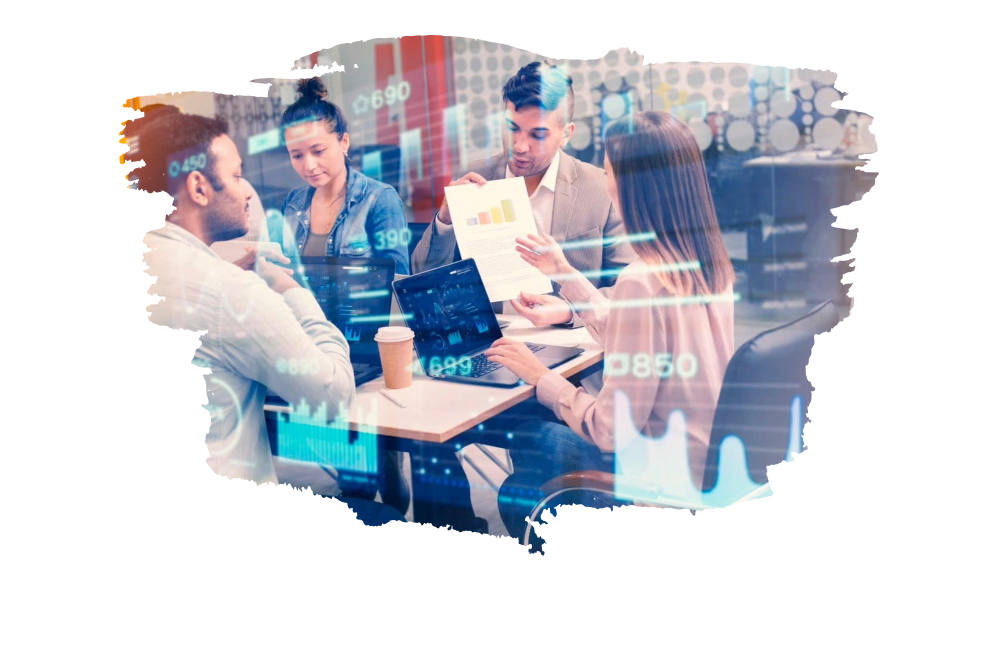
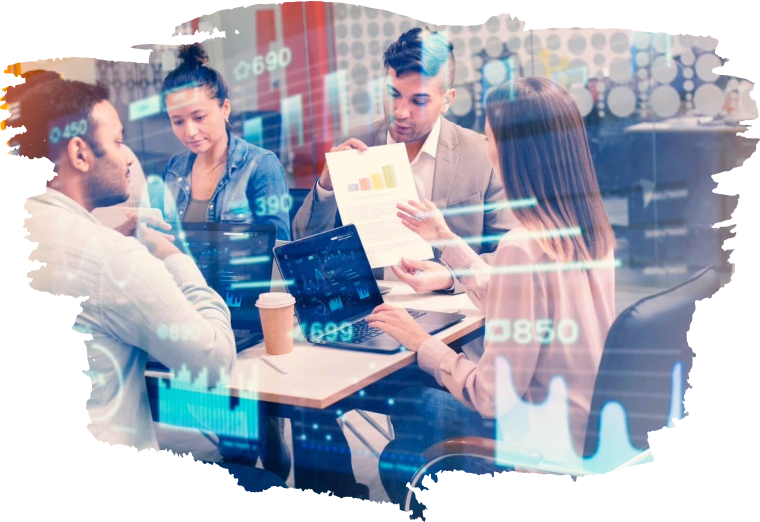
fix style hero section

diff --git a/src/components/Hero/index.tsx b/src/components/Hero/index.tsx
@@ -7,12 +7,16 @@ import ContactButton from "@/components/Button/ContactButton";
 
 const Hero = ({
   title,
+  titleClass,
   subtitle,
+  subtitleClass,
   content,
   image,
 }: {
+  titleClass?: string;
   title?: string;
   subtitle?: string;
+  subtitleClass?: string;
   content?: string;
   image?: string;
 }) => {
@@ -26,13 +30,17 @@ const Hero = ({
           <div className="-mx-4 flex">
             <div className="flex w-full flex-col px-4 md:flex-row">
               <div className="flex flex-col  items-center md:w-1/2 md:items-start">
-                <h1 className="text-3xl font-bold leading-tight text-gray-light sm:text-4xl sm:leading-tight md:text-6xl md:leading-tight">
+                <h1
+                  className={`font-bold leading-tight text-gray-light  md:leading-tight ${titleClass ? titleClass : "text-3xl sm:text-4xl sm:leading-tight md:text-6xl"}`}
+                >
                   {title || "Build & Run your"}
                 </h1>
-                <h1 className="mb-5 text-3xl font-bold leading-tight text-primary sm:text-4xl sm:leading-tight md:text-6xl md:leading-tight">
+                <h1
+                  className={`mb-5  font-bold leading-tight text-primary  sm:leading-tight  md:leading-tight ${subtitleClass ? subtitleClass : "text-3xl sm:text-4xl  sm:leading-tight md:text-6xl md:leading-tight"}`}
+                >
                   {subtitle || "IT Dream Team"}
                 </h1>
-                <p className="max-w-[550px] text-justify text-gray-light">
+                <p className="mr-6 flex max-w-[550px] text-justify text-gray-light">
                   {content ||
                     "Our comprehensive solution provides you with everything you need to build your dream IT team, from identifying your specific staffing needs to recruiting, assessing, training, and retaining top talent."}
                 </p>
@@ -49,7 +57,7 @@ const Hero = ({
                 </div>
               </div>
               <div
-                className={`mt-[50px] flex flex-col items-center  ${image ? "md:mt-[-20px]" : "md:mt-[-50px]"}  md:w-1/2`}
+                className={`mt-[50px] flex flex-col items-center  ${image ? "xl:mt-[-30px] 2xl:mt-[-70px]" : "justify-center md:mt-[-50px]"}  overflow-clip md:w-1/2`}
               >
                 <div className="hidden md:block">
                   <Image
@@ -59,9 +67,9 @@ const Hero = ({
                     height={0}
                     sizes="100vw"
                     style={{
-                      width: "80%",
+                      width: "100%",
                       height: image ? "auto" : "100%",
-                      minWidth: "400px",
+                      minWidth: "500px",
                     }}
                   />
                 </div>
@@ -69,8 +77,8 @@ const Hero = ({
                   <Image
                     src={image || "/images/hero/touch.png"}
                     alt="hero-touch"
-                    width={image ? 320 : 280}
-                    height={image ? 174 : 310}
+                    width={image ? 320 : 320}
+                    height={image ? 174 : 280}
                     sizes="100vw"
                   />
                 </div>
@@ -80,6 +88,34 @@ const Hero = ({
         </div>
         <div className="absolute right-0 top-[50px] z-[-1] opacity-30 lg:opacity-100">
           <HeroBackground />
+        </div>
+        <div className="absolute left-0 top-[50px] z-[-1] hidden md:block">
+          <svg
+            width="126"
+            height="126"
+            viewBox="0 0 126 126"
+            fill="none"
+            xmlns="http://www.w3.org/2000/svg"
+          >
+            <circle
+              r="126"
+              fill="url(#paint0_linear_791_5923)"
+              fill-opacity="0.18"
+            />
+            <defs>
+              <linearGradient
+                id="paint0_linear_791_5923"
+                x1="-54.4983"
+                y1="-51.8824"
+                x2="39.6747"
+                y2="100.713"
+                gradientUnits="userSpaceOnUse"
+              >
+                <stop stop-color="#FF3131" />
+                <stop offset="1" stop-color="#FFC3C3" />
+              </linearGradient>
+            </defs>
+          </svg>
         </div>
       </section>
     </>

diff --git a/src/app/blog/page.tsx b/src/app/blog/page.tsx
@@ -17,8 +17,10 @@ export default function Home() {
     <>
       <ScrollUp />
       <Hero
-        title="Technology makes life"
+        titleClass="text-[26px] sm:text-3xl sm:leading-tight md:text-3xl xl:text-4xl 2xl:text-5xl"
+        title="Technology Makes Life"
         subtitle="Easier and safer"
+        subtitleClass="text-3xl sm:text-4xl  sm:leading-tight md:text-5xl xl:text-6xl 2xl:text-7xl md:leading-tight"
         content="Red Breed Technology: Revolutionizing businesses with cutting-edge technology solutions"
         image="/images/blog/hero.png"
       />
